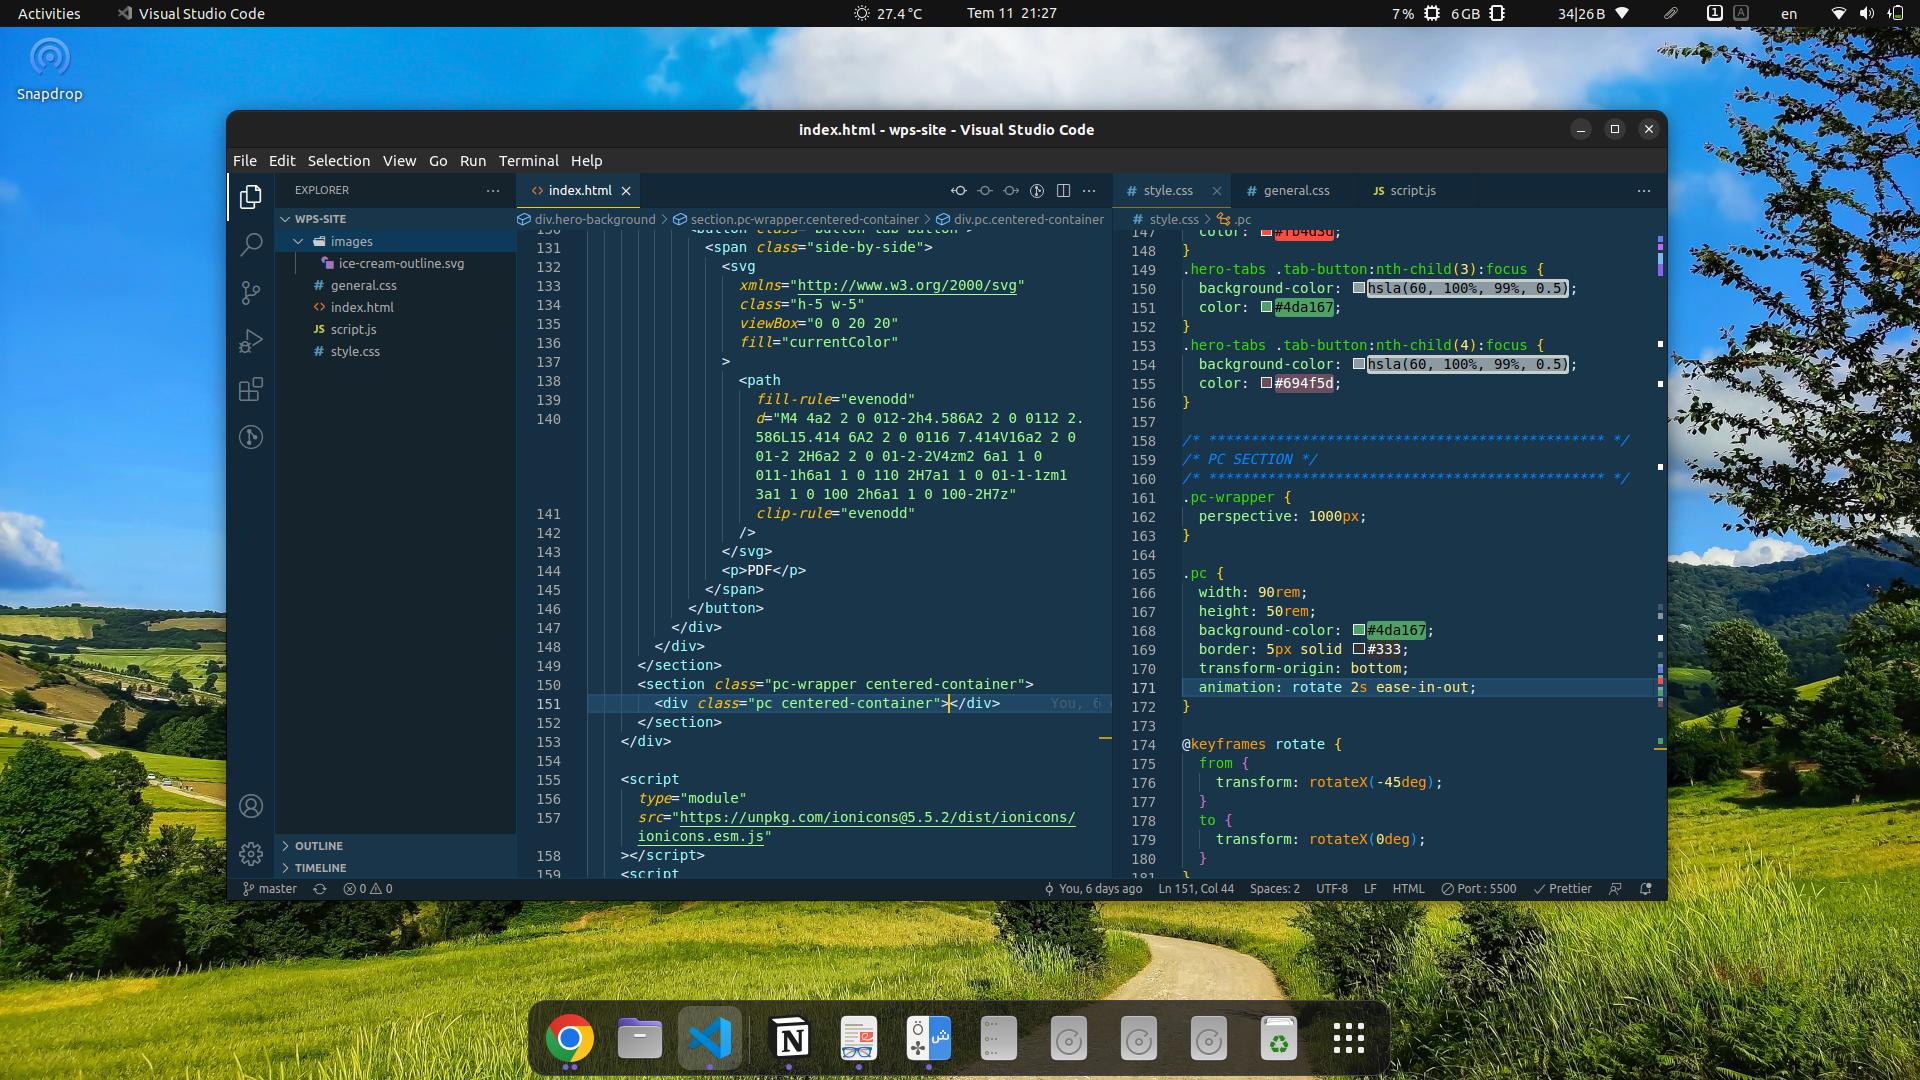
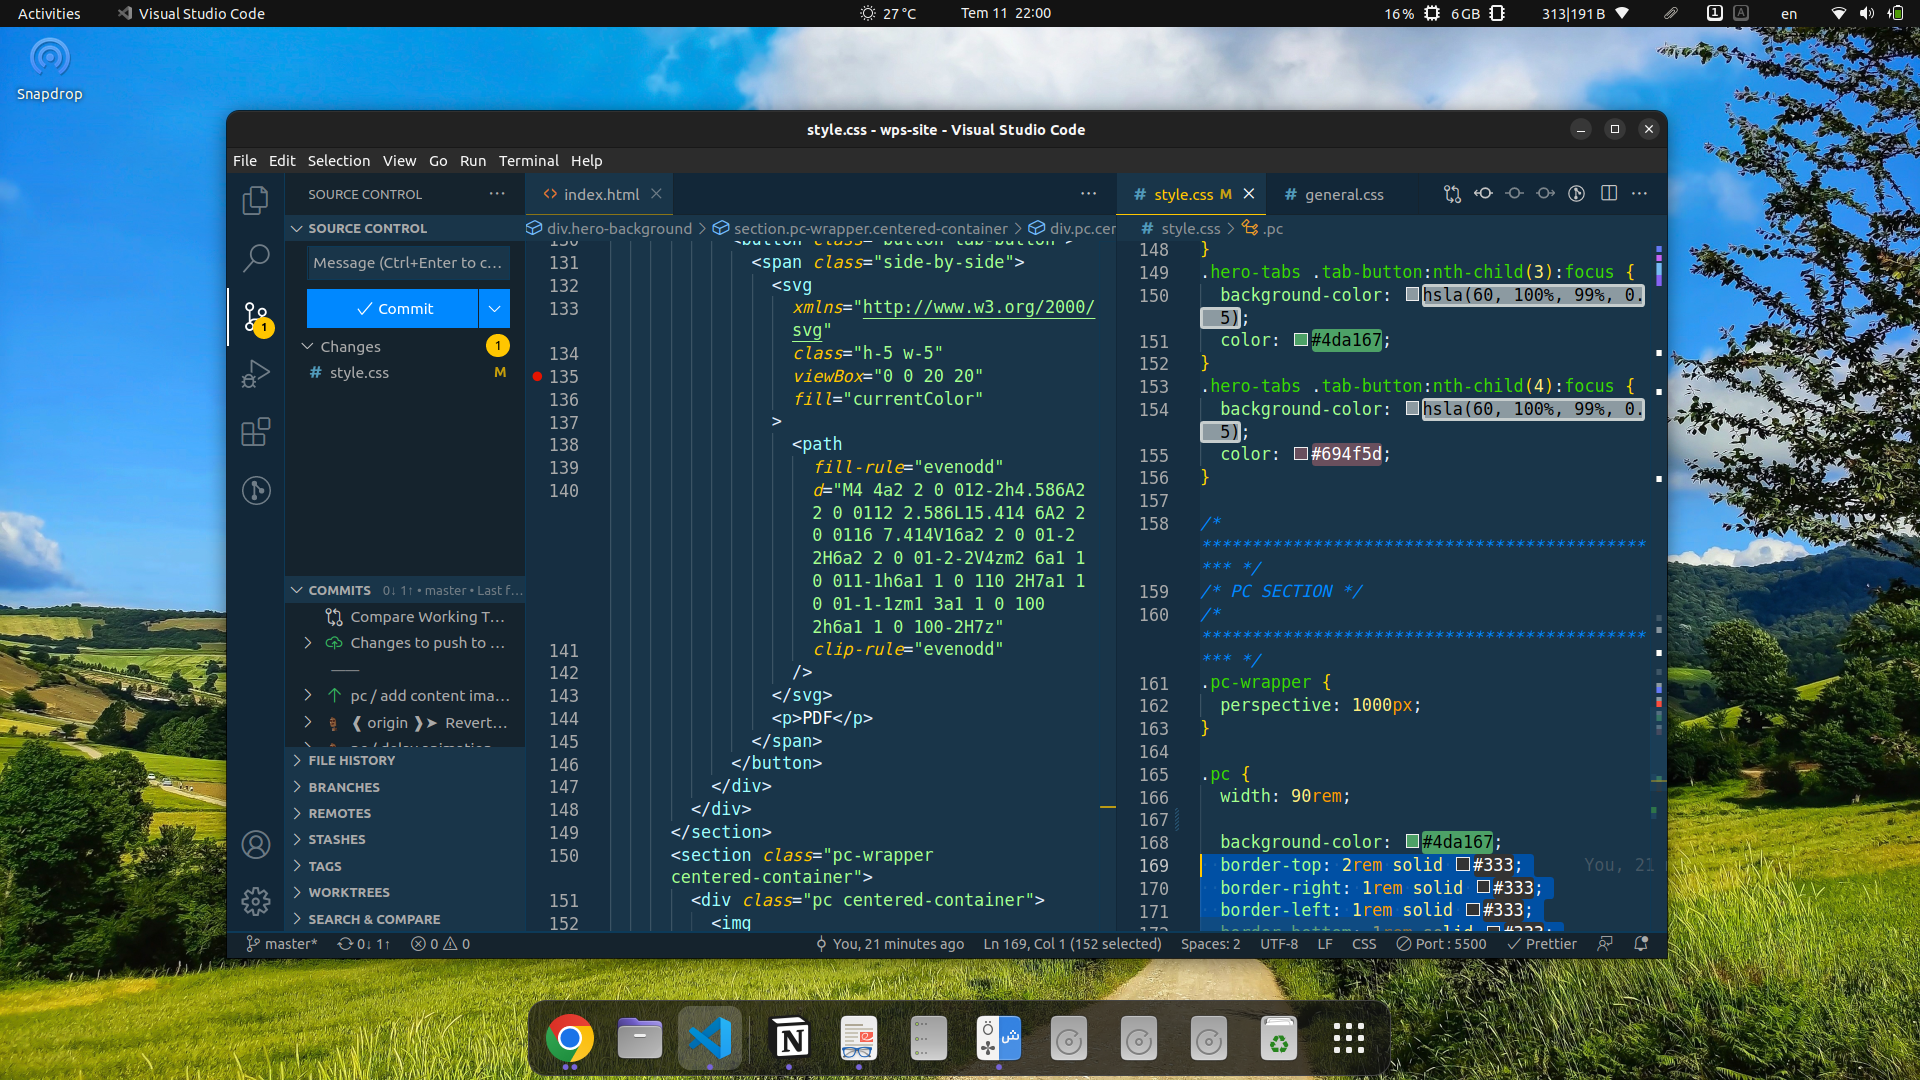
pc / fix pc image make image block instead of inline

diff --git a/wps-site/style.css b/wps-site/style.css
@@ -164,7 +164,7 @@
 
 .pc {
   width: 90rem;
-  height: fit-content;
+
   background-color: #4da167;
   border-top: 2rem solid #333;
   border-right: 1rem solid #333;
@@ -176,8 +176,8 @@
 }
 
 .pc-content {
+  display: block;
   width: 100%;
-  object-fit: fill;
 }
 
 @keyframes rotate {
